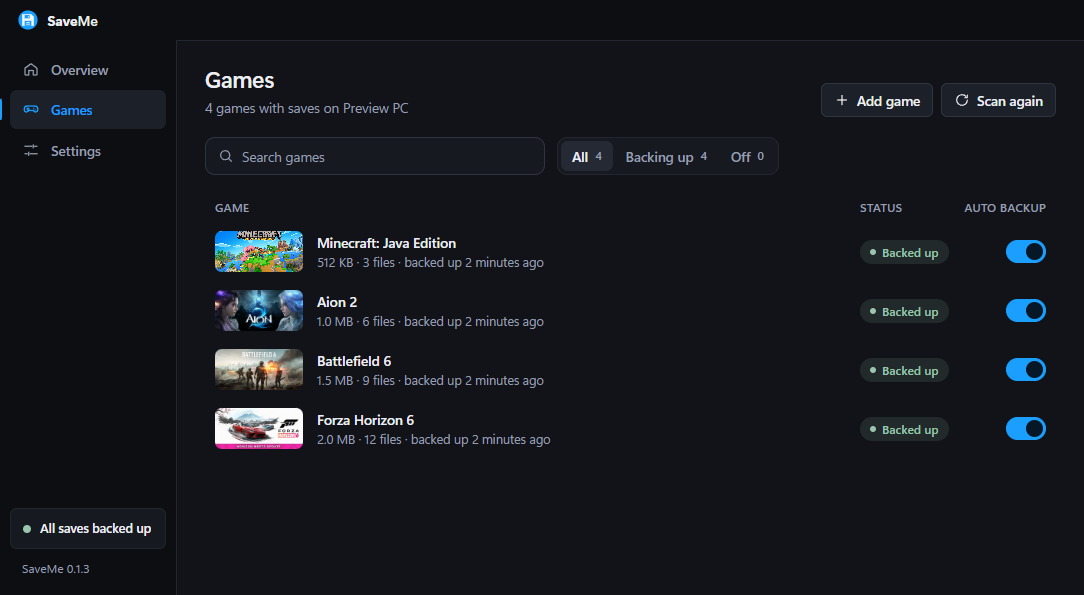
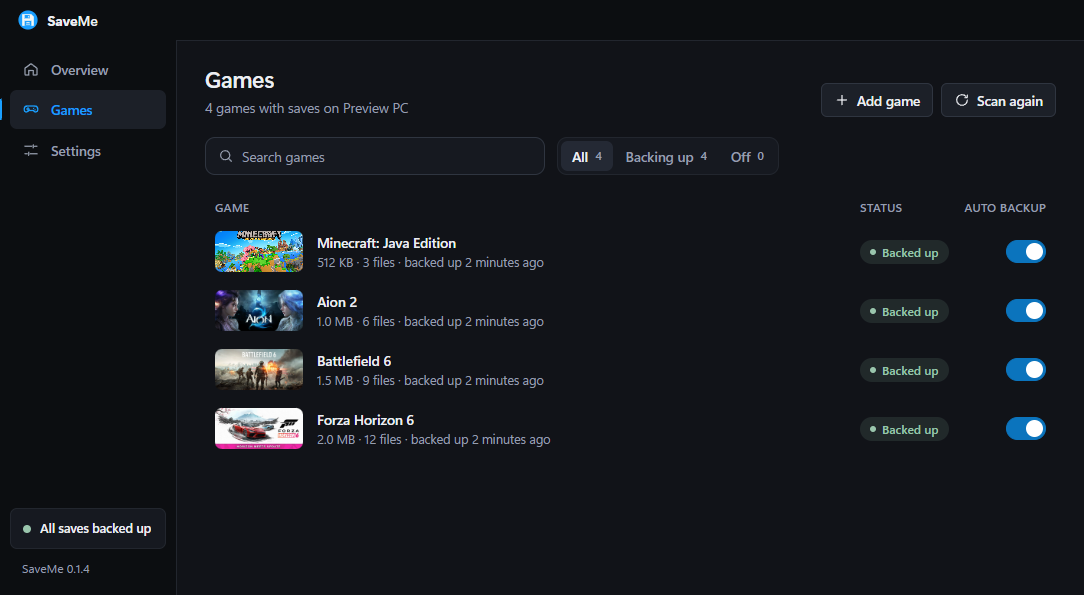
Use white labels on readable blue controls

diff --git a/docs/index.html b/docs/index.html
@@ -16,7 +16,8 @@
         --text-2: #b9bec8;
         --muted: #969eae;
         --accent: #1a9fff;
-        --accent-ink: #061827;
+        --accent-fill: #0b74bd;
+        --accent-ink: #ffffff;
         --amber: #ffc04d;
         --violet: #b99aff;
         color-scheme: dark;
@@ -45,8 +46,8 @@
       .cta { display: flex; gap: 12px; flex-wrap: wrap; }
       .btn { display: inline-flex; align-items: center; gap: 8px; padding: 12px 20px; border-radius: 7px; text-decoration: none; font-weight: 600; border: 1px solid #2f3540; background: var(--surface-2); color: var(--text); }
       .btn:hover { border-color: #454c5a; }
-      .btn.primary { background: var(--accent); border-color: var(--accent); color: var(--accent-ink); }
-      .btn.primary:hover { background: #4cb3ff; }
+      .btn.primary { background: var(--accent-fill); border-color: var(--accent-fill); color: var(--accent-ink); }
+      .btn.primary:hover { background: #0966a8; border-color: #0966a8; }
       .btn svg { width: 18px; height: 18px; }
       .small { color: var(--muted); font-size: 13.5px; margin-top: 14px; }
 
@@ -68,7 +69,7 @@
       .feature p { grid-column: 2; margin: 0; color: var(--muted); font-size: 14.5px; }
       .steps { display: grid; grid-template-columns: repeat(3, 1fr); gap: 16px; counter-reset: step; }
       .step { padding: 22px; border-left: 2px solid var(--line); }
-      .step::before { counter-increment: step; content: counter(step); display: grid; place-items: center; width: 30px; height: 30px; border-radius: 50%; background: var(--accent); color: var(--accent-ink); font-weight: 700; margin-bottom: 12px; }
+      .step::before { counter-increment: step; content: counter(step); display: grid; place-items: center; width: 30px; height: 30px; border-radius: 50%; background: var(--accent-fill); color: var(--accent-ink); font-weight: 700; margin-bottom: 12px; }
       .step h3 { margin: 0 0 6px; font-size: 17px; color: var(--text); }
       .step p { margin: 0; color: var(--muted); font-size: 14.5px; }
       .stores { display: flex; gap: 10px; flex-wrap: wrap; margin-top: 28px; }
@@ -113,8 +114,8 @@
         </div>
 
         <figure class="app-preview">
-          <a href="assets/app-preview.png" aria-label="View the SaveMe interface preview at full size">
-            <img src="assets/app-preview.png" alt="SaveMe's compact game library with Steam-blue controls, game covers and backup status" width="1084" height="621" fetchpriority="high" />
+          <a href="assets/app-preview.png?v=0.1.4" aria-label="View the SaveMe interface preview at full size">
+            <img src="assets/app-preview.png?v=0.1.4" alt="SaveMe's compact game library with Steam-blue controls, game covers and backup status" width="1084" height="621" fetchpriority="high" />
           </a>
           <figcaption>Interface preview with example games and backup data. Click to enlarge.</figcaption>
         </figure>

diff --git a/src/renderer/src/styles.css b/src/renderer/src/styles.css
@@ -11,8 +11,9 @@
   --text-2: #b9bec8;
   --muted: #969eae;
   --accent: #1a9fff;
-  --accent-2: #4cb3ff;
-  --accent-ink: #061827;
+  --accent-2: #0966a8;
+  --accent-fill: #0b74bd;
+  --accent-ink: #ffffff;
   --success: #99c5ac;
   --sky: #1a9fff;
   --amber: #dfbd81;
@@ -275,7 +276,7 @@ nav {
 
 .version.ready {
   color: var(--accent-ink);
-  background: var(--accent);
+  background: var(--accent-fill);
   font-weight: 600;
   padding: 7px 12px;
 }
@@ -414,8 +415,8 @@ nav {
 }
 
 .btn.primary {
-  background: var(--accent);
-  border-color: var(--accent);
+  background: var(--accent-fill);
+  border-color: var(--accent-fill);
   color: var(--accent-ink);
   font-weight: 600;
 }
@@ -877,8 +878,8 @@ nav {
 }
 
 .toggle.on {
-  border-color: var(--accent);
-  background: var(--accent);
+  border-color: var(--accent-fill);
+  background: var(--accent-fill);
   box-shadow: none;
 }
 
@@ -1739,8 +1740,8 @@ input::placeholder {
 }
 
 .onboarding-steps li.done .step-mark {
-  background: var(--accent);
-  border-color: var(--accent);
+  background: var(--accent-fill);
+  border-color: var(--accent-fill);
   color: var(--accent-ink);
 }
 

diff --git a/DESIGN.md b/DESIGN.md
@@ -15,3 +15,7 @@ Slim persistent main navigation, a flat content canvas, compact page headers, an
 ## Verification
 
 Check library, overview, detail, settings categories and minimum window size. Verify the actual Windows taskbar context menu, not only the executable's icon resource.
+
+## Filled controls
+
+Primary buttons and other solid interactive fills use #0b74bd with white text/icons; hover uses #0966a8. White-text contrast is 4.94:1 normally and 6.04:1 on hover. Keep the supplied Steam blue #1a9fff on the app icon, links, active navigation and focus indicators.
